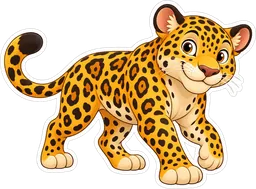
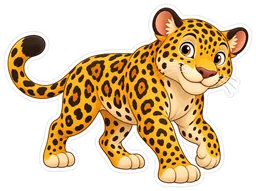
Jaguar : contour blanc aussi épais que les autres stickers

diff --git a/src/assets.js b/src/assets.js
@@ -110,7 +110,7 @@ window.STICKERS = [
   { id: "parrot", theme: "jungle", name: "Perroquet", src: "assets/stickers/jungle/parrot.webp", w: 182, h: 256, scale: 0.6 },
   { id: "gorilla", theme: "jungle", name: "Gorille", src: "assets/stickers/jungle/gorilla.webp", w: 215, h: 256, scale: 1.1 },
   { id: "panther", theme: "jungle", name: "Panthère noire", src: "assets/stickers/jungle/panther.webp", w: 256, h: 217, scale: 1.0 },
-  { id: "jaguar", theme: "jungle", name: "Jaguar", src: "assets/stickers/jungle/jaguar.webp", w: 256, h: 189, scale: 1.0 },
+  { id: "jaguar", theme: "jungle", name: "Jaguar", src: "assets/stickers/jungle/jaguar.webp", w: 256, h: 191, scale: 1.0 },
   { id: "toucan", theme: "jungle", name: "Toucan", src: "assets/stickers/jungle/toucan.webp", w: 256, h: 236, scale: 0.6 },
   { id: "caterpillar", theme: "jungle", name: "Chenille", src: "assets/stickers/jungle/caterpillar.webp", w: 256, h: 221, scale: 0.4 },
   { id: "boa", theme: "jungle", name: "Boa", src: "assets/stickers/jungle/boa.webp", w: 256, h: 216, scale: 0.7 },
